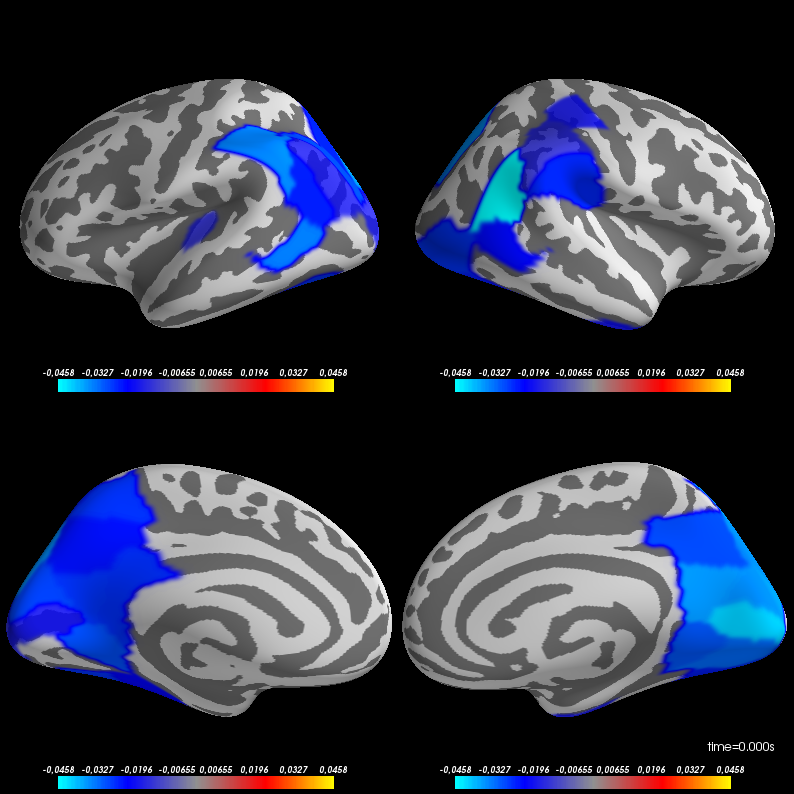
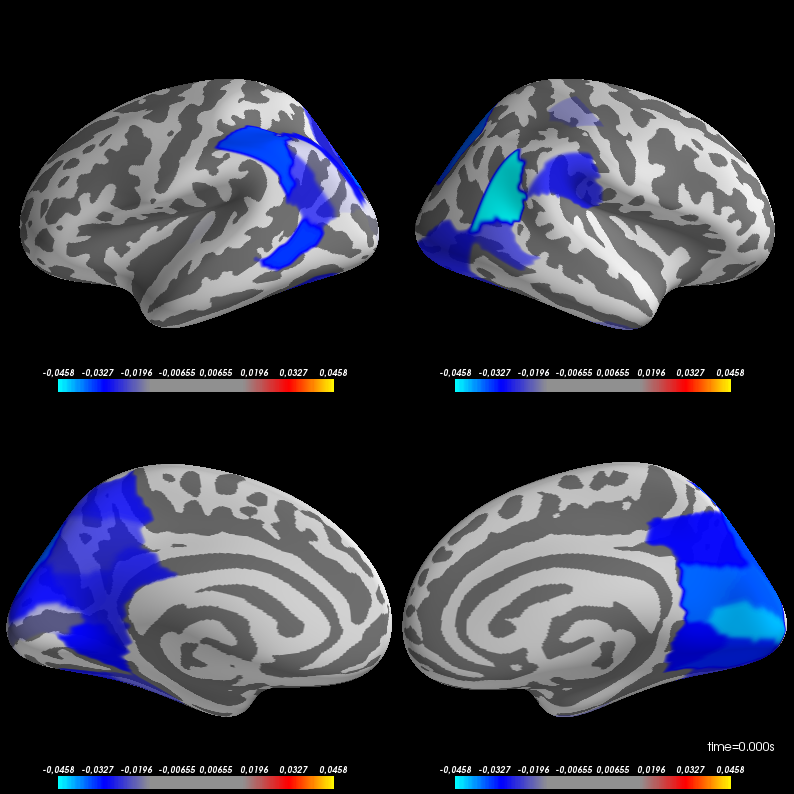
corrected plot function

diff --git a/analyze_mf_source/plots.py b/analyze_mf_source/plots.py
@@ -65,9 +65,7 @@ def plot_brain(data, fmin = -1.0, fmax = 1.0, png_filename = None, positive_only
     t=0.
 
     if not positive_only:
-        #cm = mne.viz.mne_analyze_colormap([5, 10, 15], format = 'mayavi')
-        cm = mne.viz.mne_analyze_colormap([0.0, fmax/2.0, fmax], format = 'mayavi')
-
+        cm = mne.viz.mne_analyze_colormap([5, 10, 15], format = 'mayavi')
     else:
         colors= [(105./255., 105./255.,105./255.),
                  (105./255., 105./255.,105./255.),
@@ -85,7 +83,116 @@ def plot_brain(data, fmin = -1.0, fmax = 1.0, png_filename = None, positive_only
 
     try:
         if not positive_only:
-            # brain.scale_data_colormap(fmin=fmin, fmid=fmid, fmax=fmax, transparent=False)
+            brain.scale_data_colormap(fmin=fmin, fmid=fmid, fmax=fmax, transparent=False)
+            # Set transparency around 0
+            for h in ['lh', 'rh']:
+                data = brain.data_dict[h]
+                table = data["orig_ctable"].copy()
+                n_colors = table.shape[0]
+                n_colors2 = int(n_colors / 2)
+                table[:n_colors2, -1] = np.linspace(255, 0, n_colors2) # alpha values
+                table[n_colors2:, -1] = np.linspace(0, 255, n_colors2)
+                brain.data_dict[h]["orig_ctable"]=table
+                brain.data_dict[h]["transparent"] # set information
+                for s,surf in enumerate(data['surfaces']): # indicate new colormap
+                    brain.data_dict[h]['surfaces'][s].module_manager.scalar_lut_manager.lut.table = table
+        else:
+            brain.scale_data_colormap(fmin=fmin, fmid=fmid, fmax=fmax, transparent=True)
+    except:
+        pass
+
+    # Save figure
+    if png_filename is not None:
+        brain.save_image(png_filename)
+        brain.close()
+
+    return labels
+import os, sys
+from os.path import dirname, abspath
+# Add parent dir to path
+sys.path.insert(0, dirname(dirname(abspath(__file__))))
+
+import mne
+import matplotlib
+import matplotlib.pyplot as plt
+import numpy as np
+from mne.viz import plot_topomap
+from copy import deepcopy, copy
+from matplotlib.colors import LinearSegmentedColormap
+import meg_info
+
+
+def plot_brain(data, fmin = -1.0, fmax = 1.0, png_filename = None, positive_only = False):
+    """
+    data: array of shape (138,) to be plotted
+    """
+
+    # Load info
+    info   = meg_info.get_info()
+    subjects_dir = info['fsaverage_dir']
+
+    #===========================================================================
+    # MNE config
+    #===========================================================================
+    nb_vertices = 10242
+    vertices = [np.arange(nb_vertices),np.arange(nb_vertices)] # lh, rh
+    SUBJECTS_DIR = info['fsaverage_dir']
+    SUBJECT = 'fsaverage'
+    Parcellation = 'aparc.split-small'
+
+    # Set SUBJECTS_DIR in the environment
+    os.environ["SUBJECTS_DIR"] = SUBJECTS_DIR
+    labels = mne.read_labels_from_annot(os.path.join(SUBJECTS_DIR,SUBJECT),
+                                        parc= Parcellation)
+    # Removes the label 'unknown'
+    print('last label removed: %s'%labels.pop(-1))
+
+
+    #===========================================================================
+    # Create STC
+    #===========================================================================
+    cortex_data= np.zeros((nb_vertices*2,1))
+    for k in range(len(labels)):
+        if '-lh' in labels[k].name: # left hemisphere
+            vert = labels[k].vertices[labels[k].vertices<nb_vertices]
+        elif '-rh' in labels[k].name: # right hemisphere
+            vert= nb_vertices + labels[k].vertices[labels[k].vertices<nb_vertices]
+
+        cortex_data[vert,:] = data[k]
+
+    # create stc
+    stc = mne.SourceEstimate(cortex_data, vertices, tmin=0, tstep=1)
+
+    #===========================================================================
+    # Plot
+    #===========================================================================
+
+    fmid = (fmin + fmax)/2.0
+
+    stc.subject='fsaverage'
+    pick="Radial"
+    t=0.
+
+    if not positive_only:
+        cm = mne.viz.mne_analyze_colormap([5, 10, 15], format = 'mayavi')
+    else:
+        colors= [(105./255., 105./255.,105./255.),
+                 (105./255., 105./255.,105./255.),
+                 (255./255.,0.,0),
+                 (255./255.,255./255.,0),
+                 (255./255.,255./255.,0)]
+        cm_name='my_cm'
+        cm = LinearSegmentedColormap.from_list(cm_name,colors, N=256)
+        cm = 255.*np.array([cm(ind) for ind in np.arange(256)])
+
+
+    brain = stc.plot(hemi = 'split', views = ['lat','med'],
+            colormap= cm,subjects_dir=subjects_dir)
+
+
+    try:
+        if not positive_only:
+            brain.scale_data_colormap(fmin=fmin, fmid=fmid, fmax=fmax, transparent=False)
             # Set transparency around 0
             for h in ['lh', 'rh']:
                 data = brain.data_dict[h]
